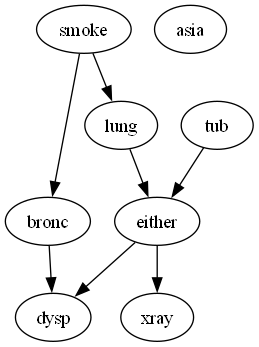
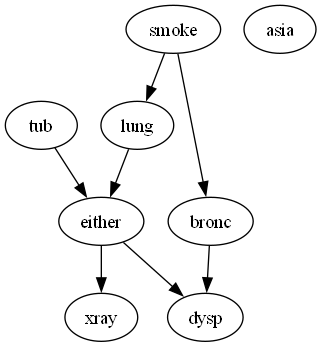
CSE-756: add methods to save the fitted model(dag+cpds)

diff --git a/experiments/asia/02_run_hill_climb_calculate_CPDs.py b/experiments/asia/02_run_hill_climb_calculate_CPDs.py
@@ -4,6 +4,7 @@ from src.evaluation.graph_metrics import evaluate_graph_recovery
 from src.visualization.graphviz_plot import save_graphviz_dag
 from src.estimation.parameter_estimation import estimate_parameters_mle
 from src.expert_knowledge.asia import get_asia_expert_knowledge
+from src.persistence.model_io import save_model_pickle
 
 def main():
     true_model = load_asia_model()
@@ -11,7 +12,7 @@ def main():
     
        # Default: no expert knowledge.
     # Caution !If you make it false then you will override the non-expert-guided dag
-    use_expert_knowledge = True
+    use_expert_knowledge = False
     knowledge_type = "ideal"
     
     expert_knowledge = get_asia_expert_knowledge(
@@ -56,11 +57,24 @@ def main():
     print("\nParameter Estimation: MLE")
     print("-------------------------")
 
-    estimate_parameters_mle(
-        learned_dag=learned_dag,
-        samples=asia_samples,
-        print_cpds=True,
-    )
+    fitted_model = estimate_parameters_mle(
+    learned_dag=learned_dag,
+    samples=asia_samples,
+    print_cpds=True,
+)
+    
+    if use_expert_knowledge:
+        model_output_path = f"results/models/asia_hill_climb_fitted_expert_{knowledge_type}.pkl"
+    else:
+        model_output_path = "results/models/asia_hill_climb_fitted.pkl"
+
+    save_model_pickle(
+    model=fitted_model,
+    output_path=model_output_path,
+)
+
+    print("\nFitted model saved to:")
+    print(model_output_path)
     
 if __name__ == "__main__":
     main()

diff --git a/src/persistence/model_io.py b/src/persistence/model_io.py
@@ -1,0 +1,19 @@
+import pickle
+from pathlib import Path
+
+
+def save_model_pickle(model, output_path):
+    output_path = Path(output_path)
+    output_path.parent.mkdir(parents=True, exist_ok=True)
+
+    with open(output_path, "wb") as file:
+        pickle.dump(model, file)
+
+    return str(output_path)
+
+
+def load_model_pickle(input_path):
+    with open(input_path, "rb") as file:
+        model = pickle.load(file)
+
+    return model
